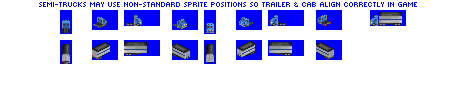
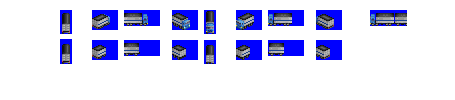
Change: improved Fortiscue reefer truck (new sprites and lengths)

diff --git a/src/vehicles/fortiscue.py b/src/vehicles/fortiscue.py
@@ -6,19 +6,17 @@ consist = RVConsist(vehicle_type = RefrigeratedHauler,
                 base_numeric_id = 180,
                 title = 'Fortiscue [Reefer Truck]',
                 replacement_id = '-none',
-                semi_truck_so_redistribute_capacity = True,
                 vehicle_life = 40,
-                intro_date = 1978)
+                intro_date = 1972)
 
-consist.add_unit(weight = 17,
-                capacity = 0,
-                vehicle_length = 2,
-                semi_truck_shift_offset_jank = 2,
-                effects = ['EFFECT_SPRITE_DIESEL, -2, 1, 10'])
+consist.add_unit(weight = 18,
+                capacity = 25,
+                vehicle_length = 6,
+                visual_effect = 'VISUAL_EFFECT_DIESEL')
 
 consist.add_unit(weight = 10,
-                capacity = 40,
-                vehicle_length = 6)
+                capacity = 15,
+                vehicle_length = 4)
 
 consist.add_model_variant(intro_date=0,
                        end_date=global_constants.max_game_date,
